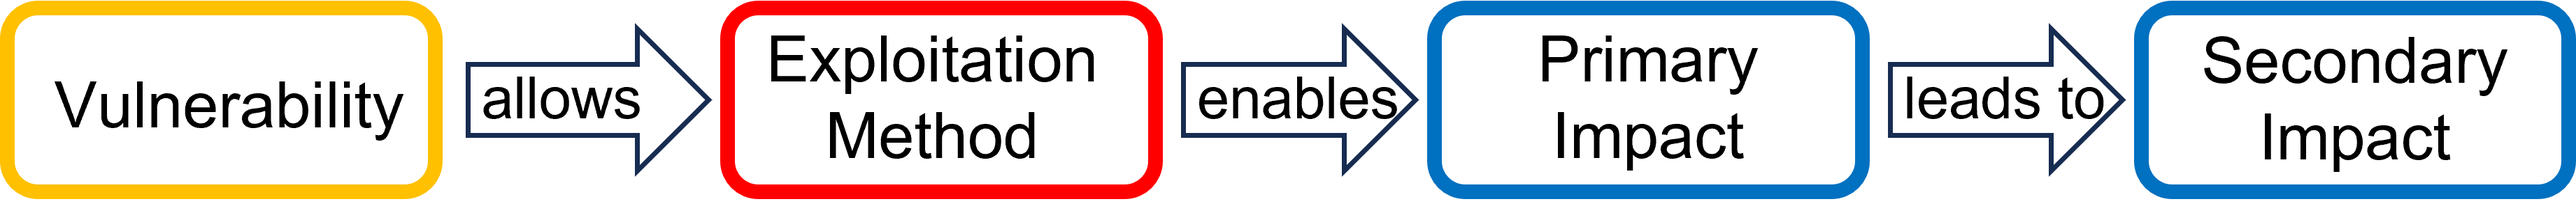
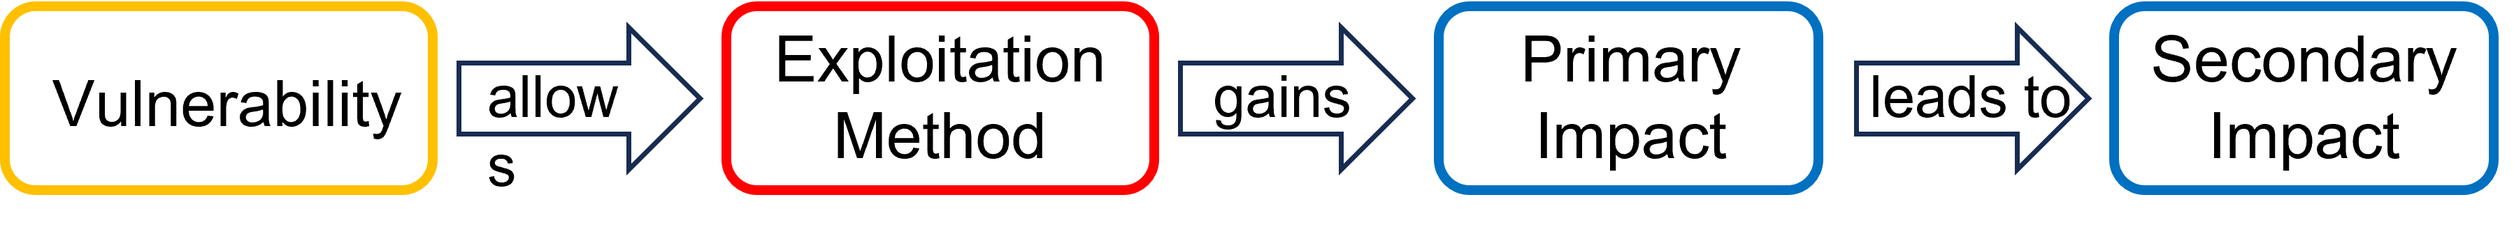
update pngs

Changed region(s): [[0.0, 0.0, 1.0, 0.9412], [0.7164, 0.0882, 0.7475, 0.1176]]

diff --git a/updated-methodology.md b/updated-methodology.md
@@ -28,7 +28,7 @@ Mapping vulnerabilities to ATT&CK techniques (identifying exploit method and imp
 - **Consider Standard Exploit Methods** - Vulnerabilities of the same type can often be exploited in many different ways. However, specifics of a vulnerability can lead to identification of a specific exploit method. The [Standard Exploit Methods](#standard-exploit-methods) section includes a collection of exploit methods based the type of vulnerable object and the attack entry point. 
 - **Identify Techniques Using Keywords** - While many vulnerabilities can be mapped to ATT&CK using the common vulnerability table, there are many more that require a once-off, custom mapping. In these cases, keywords in the vulnerability's description can be used to identify the ATT&CK techniques associated with the exploit method and impact components of a VID. Details are given in the [Keyword-based Mapping](#keyword-based-mapping) section.
 
-Example mappings, [Background Notes](#background-notes) and [References](#references) are also included below.
+Example mappings, [Background Notes](#background-notes) and [References](#references) are included below.
 
 ### Common Vulnerability Types
 
@@ -104,7 +104,11 @@ As indicated in the common vulnerability table **Table 1**, some vulnerabilities
 | application | network traffic | [T1140](https://attack.mitre.org/techniques/T1140) (Network Sniffing) | 
 
 
-Note that the exploit of a vulnerability (e.g., Network Sniffing) is not necessarily the same technique that exploits the user/machine. GIVE EXPLICIT EXAMPLE... In other words, the *impact* of exploiting the vulnerability may be exploitation of the user/machine. 
+Note that the exploit of a vulnerability (e.g., Network Sniffing) is not necessarily the same technique that exploits the user/machine. For example, consider the VID associated with the first example:
+
+![/new-cve-to-attack-1st-example.png](/new-cve-to-attack-1st-example.png)
+
+Here, it is the secondary impact that exploits the user/machine. 
 
 Also, some vulnerabilities require no explicit exploitation. For example, hardcoded credentials or default credentials make systems vulnerable without explicit exploitation (i.e., off-network discovery of the credentials is not considered exploitation).
 
